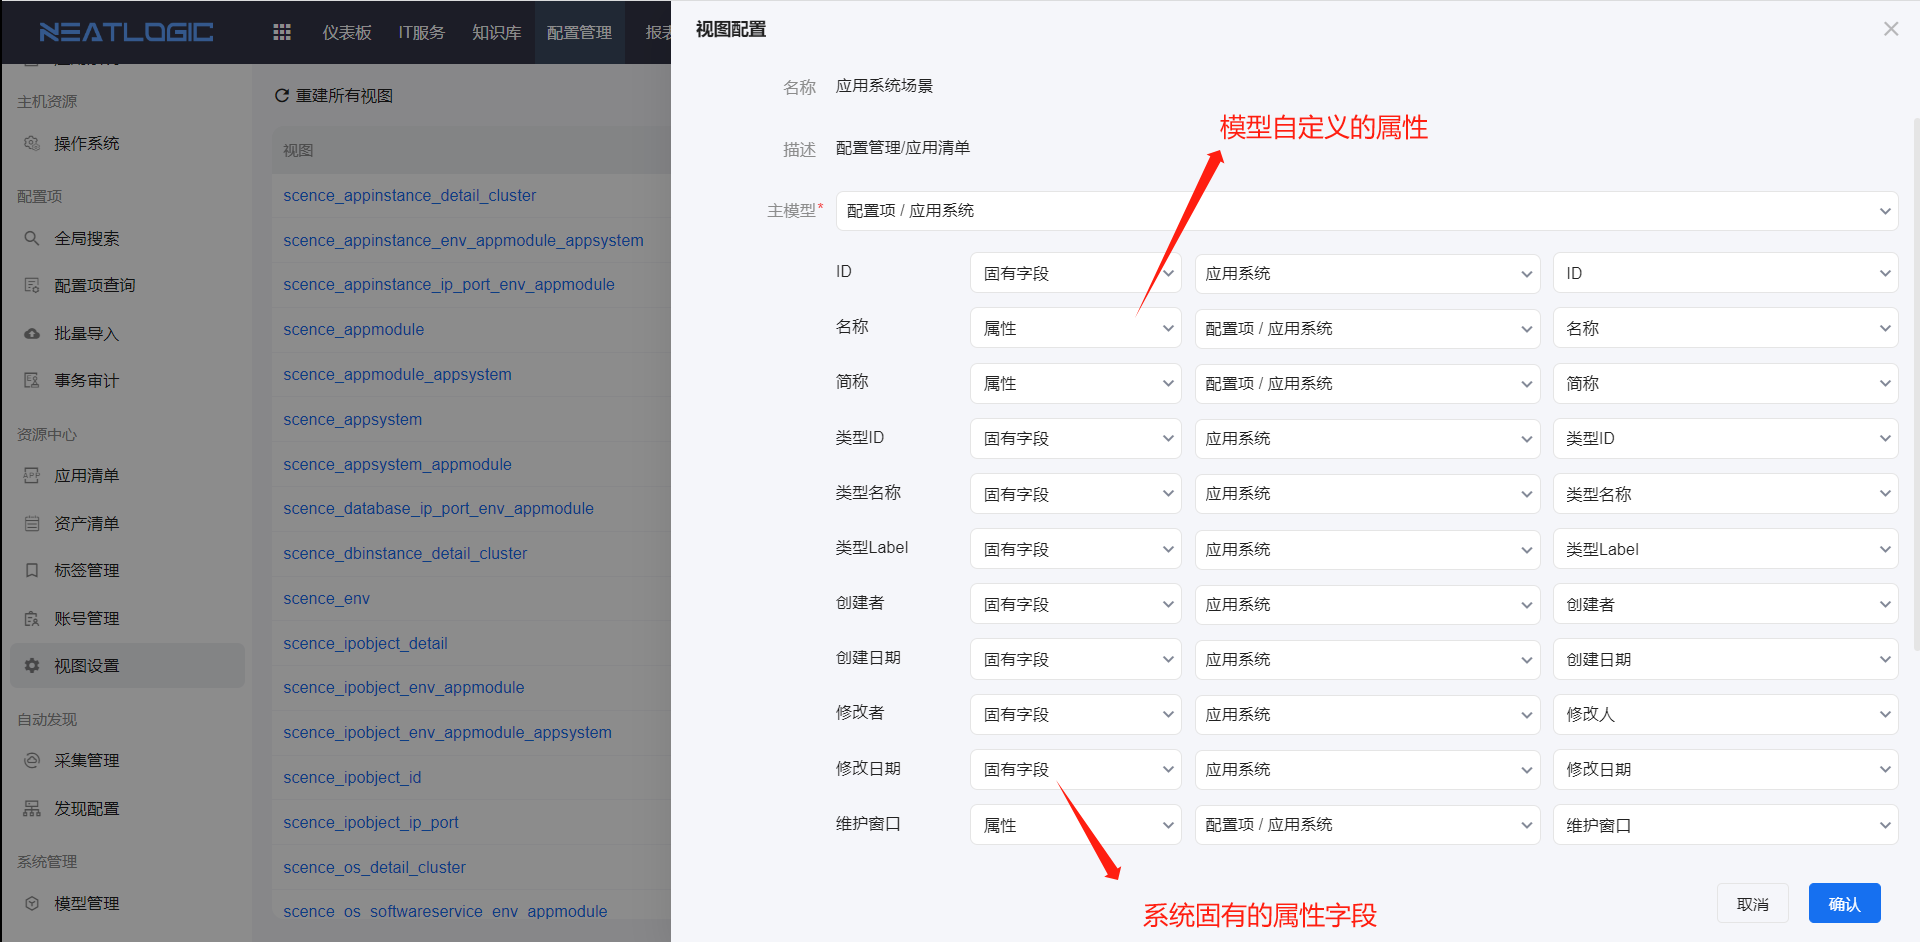
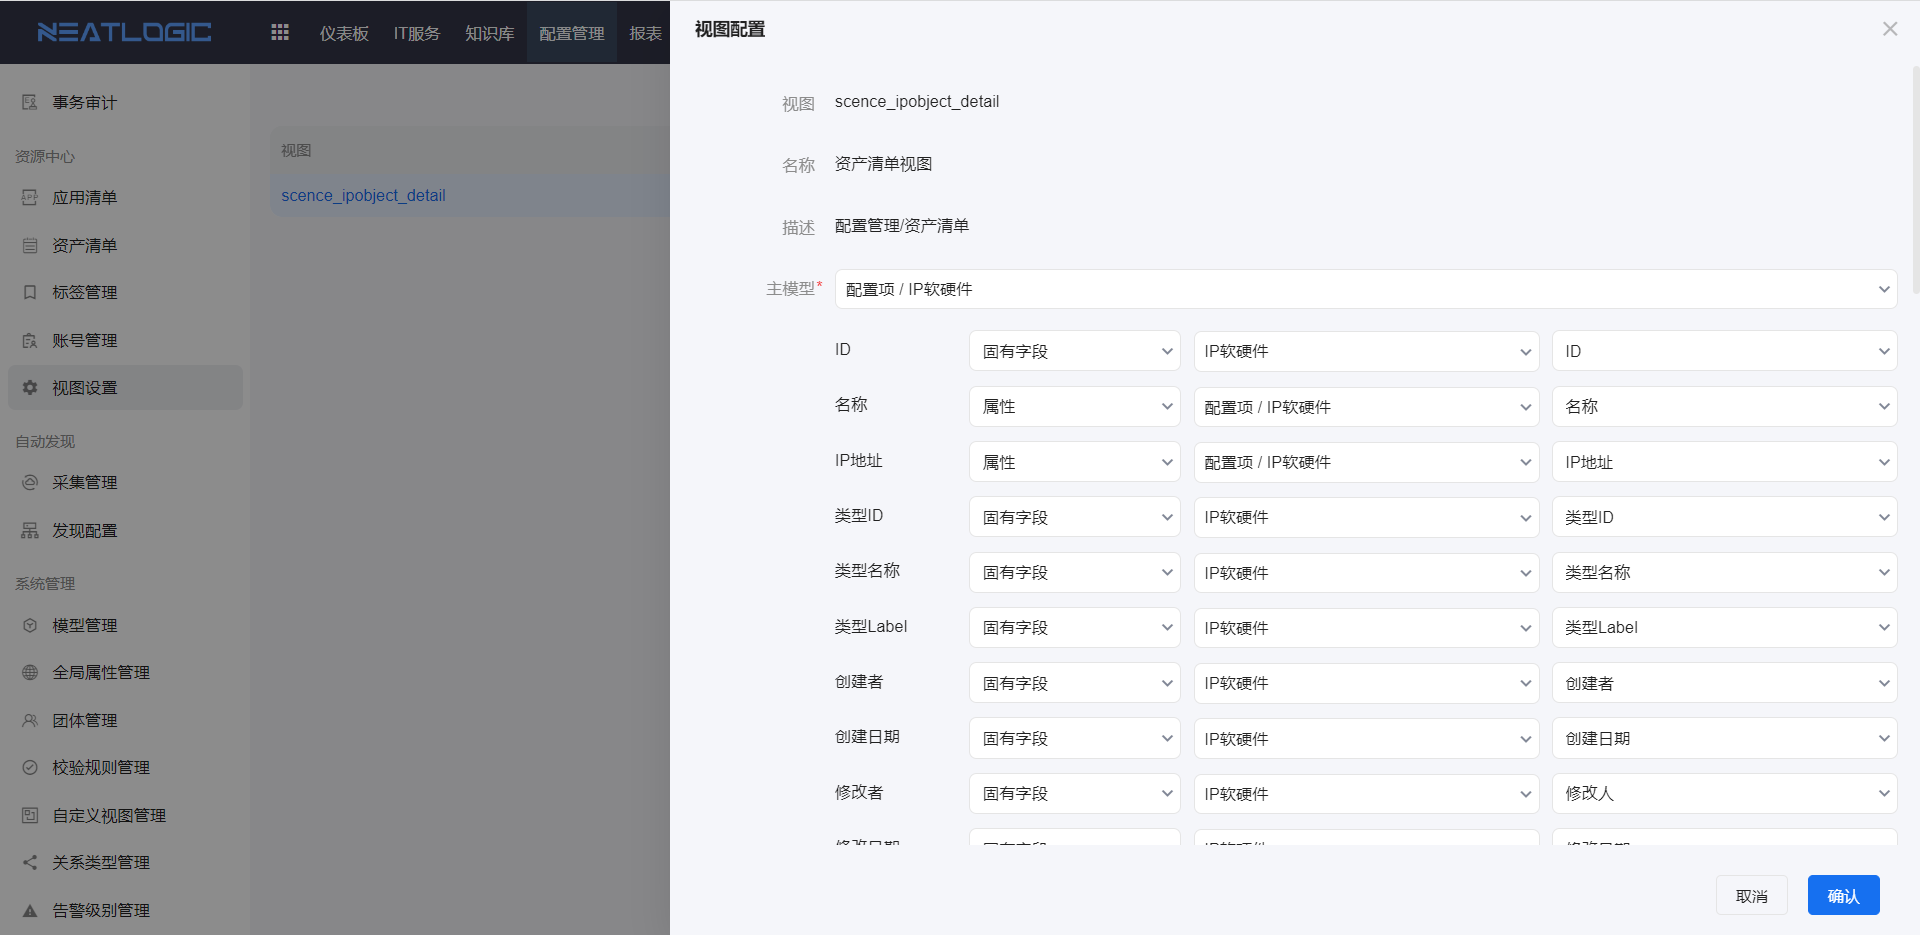
#[1045680523542528]在线帮助文档-更新资产清单、视图设置 http://192.168.0.96:8090/demo/rdm.html#/story-detail/939050947543040/939050947543042/1045680523542528

diff --git a/src/main/resources/neatlogic/resources/documentonline/zh/3.配置管理/资源中心/资产清单.md b/src/main/resources/neatlogic/resources/documentonline/zh/3.配置管理/资源中心/资产清单.md
@@ -5,29 +5,37 @@
 ![](images/资产清单.png)
 资产清单页面允许查看、删除和搜索资产，还能管理资产关联的账号和资产所属的标签。
 
-### 搜索
+## 资产清单数据源配置
+资产清单的树目录可在“设置”中修改，“设置”中选择的配置项模型及其下级模型回显为资产清单的树目录。
+![](images/资产清单_设置树目录.png)
+配置项模型数据源的根目录是由[视图设置](../资源中心/视图设置.md)中 scence_ipobject_detail 视图的主模型控制的。
+
+资产清单表格的数据是查询scence_ipobject_detail视图得到。表格的表头字段与scence_ipobject_detail视图字段对应。通过对scence_ipobject_detail视图字段做映射，控制资产清单表格显示内容。
+![](images/资产清单_视图.png)
+
+## 搜索
 资产清单页面支持通过连接协议、资产状态、巡检状态、环境、系统、模块、状态和标签来过滤IP资产。
 ![](images/资产清单_搜索.gif)
 
-### 查看资产详情
+## 查看资产详情
 在资产清单列表中，点击IP地址，跳转到对应资产的配置项详情页面。
 ![](images/资产清单_查看资产详情.gif)
 
-### 管理资产
+## 管理资产
 在配置模型列表选中目标模型，页面上方有添加资产操作，光标聚焦到资产上，显示编辑和删除按钮。实际操作如图，操作人需要拥有相应配置模型管理权限。
 ![](images/资产清单_管理ip资产.gif)
 
-### 管理资产账号
+## 管理资产账号
 点击资产上的账户管理按钮，页面出现账户管理弹窗，编辑关联公共账号或私有账户并保存即可。公共账号来源于[账号管理](../资源中心/账号管理.md)。
 ![](images/资产清单_管理资产账号.gif)
 以上是在资产清单页面快速管理资产的方法，此外，还可以在配置项查询页面，找到需要配置资产的模型，在模型的配置项列表增、删、改资产对象。<br>
 以在window操作系统下添加新的资源为例。
 ![](images/资产清单_配置项管理_添加资产.gif)
 
-### 管理资产标签
+## 管理资产标签
 点击资产上的标签管理按钮，页面出现标签管理弹窗，编辑标签并保存即可。标签数据源来自[标签管理](../资源中心/标签管理.md)。
 ![](images/资产清单_管理资产标签.gif)
 
-### 批量操作
+## 批量操作
 资产清单页面，可通过批量勾选资产对象，展开批量操作，根据场景进行批量增加标签或账户，以及批量删除标签、账户或资产。
 ![](images/资产清单_批量操作.gif)

diff --git a/src/main/resources/neatlogic/resources/documentonline/zh/3.配置管理/资源中心/视图设置.md b/src/main/resources/neatlogic/resources/documentonline/zh/3.配置管理/资源中心/视图设置.md
@@ -1,11 +1,25 @@
 # 视图设置
 视图设置页面主要是定义配置模块的视图与配置模型的映射关系配置，映射关系更新后可通过重建视图来更新视图数据。
 
-### 视图配置
+## 视图配置
 下图以应用清单中应用系统数据的视图为例，应用清单的应用系统属性与应用系统模型的自定义属性或者模型的固有属性建立映射关系。
 ![](images/视图设置_视图配置.png)
+1. 先设置主模型，更改主模型后，下面的字段设置会全部自动清空，需要重新设置。视图展示主模型及其后代模型的配置项数据。
+2. 主模型下的字段列表是写死在代码里面的。
+3. 字段映射模式有三种：固有字段、属性、关系。
+4. 固有字段是每个模型都有的隐藏属性，分别是ID、UUID、名称、创建者、创建日期、修改者、修改日期、巡检状态、巡检时间、监控状态、监控时间、类型ID、类型名称、类型Label。
+   
+   ![](images/视图设置_视图配置_固有字段.png)
 
-### 重建所有视图
+5. 属性映射模式是指该字段要映射到某个模型（该模型是主模型或其后代模型）的某个属性，如果属性是下拉框类型属性，还要进一步指定映射该属性模型的哪个属性上。
+   
+   ![](images/视图设置_视图配置_属性映射.png)
+
+6. 关系映射模式是指该字段要映射到某个模型（该模型是主模型或其后代模型有某种关系联系）的某个属性。
+   
+   比如应用模块与IP软硬件的后代模型应用实例有关系联系，可以做映射；应用系统与应用模块有关系联系，可以做映射；但是应用系统与IP软硬件没有直接关系联系，不能做映射；需要IP软硬件先与应用模块做映射后，应用系统再与应用模块做映射。
+   ![](images/视图设置_视图配置_关系映射.png)
+## 重建所有视图
 重建所有视图操作是基于当前视图配置更新所有视图的数据。重建成功的视图状态为就绪，重建失败的视图可以通过光标聚焦到失败状态查看失败原因。
 
 重建视图的操作在系统配置-[重建数据库视图](../../100.系统配置/基础服务.md/#2-重建数据库视图)页面。
